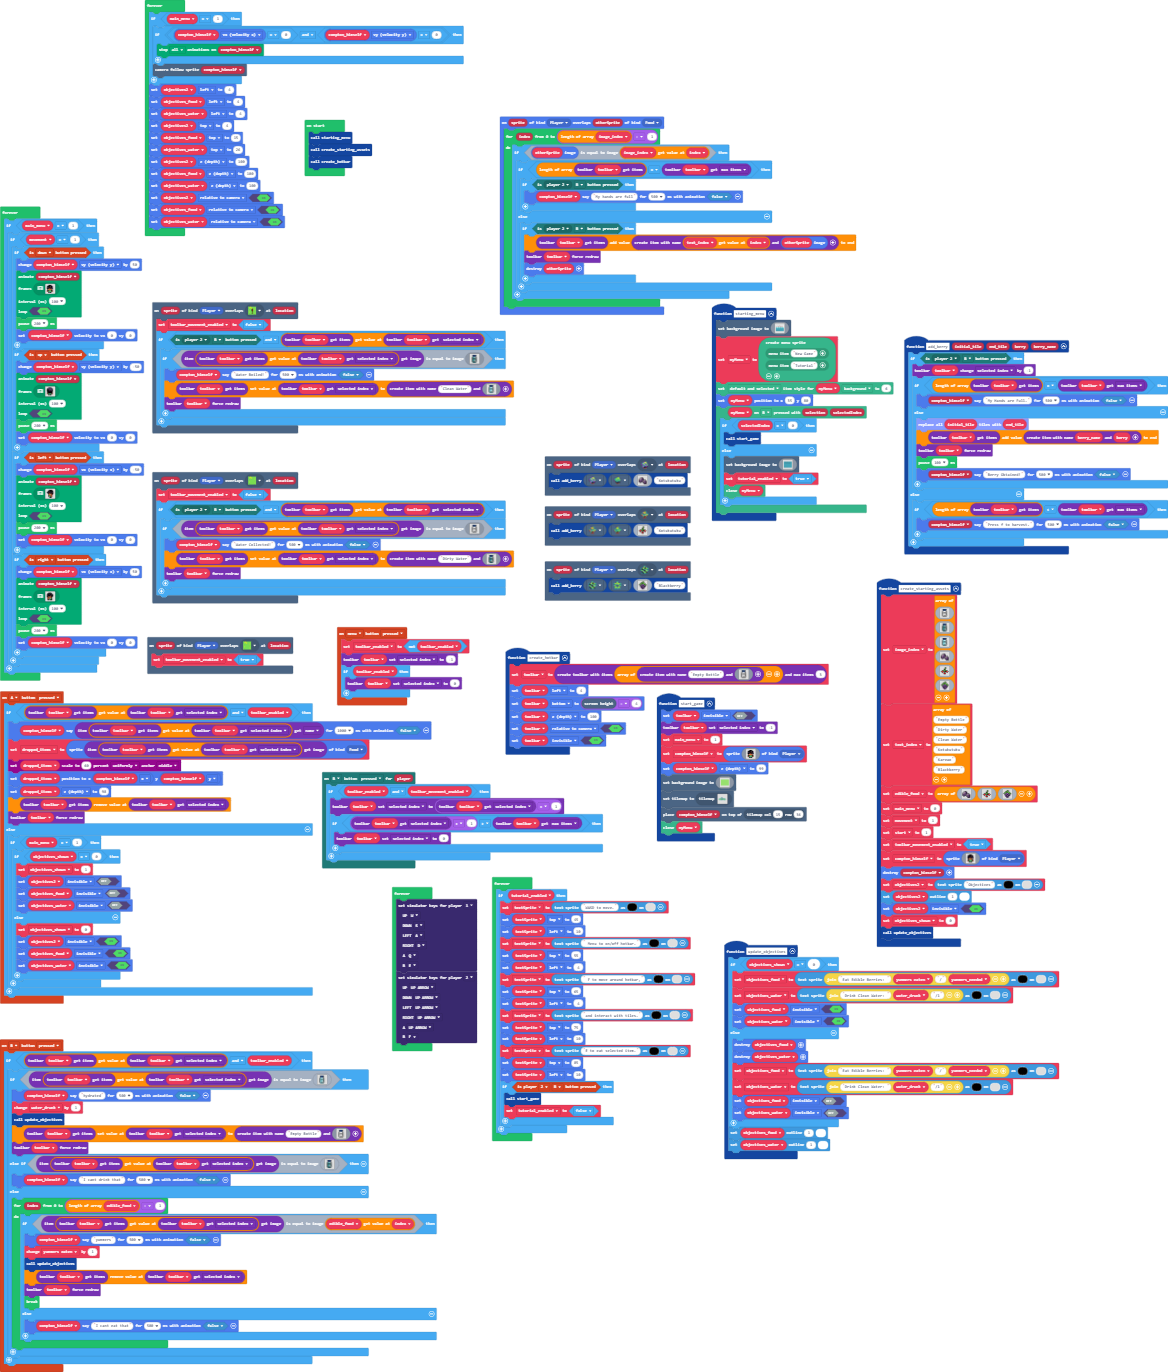
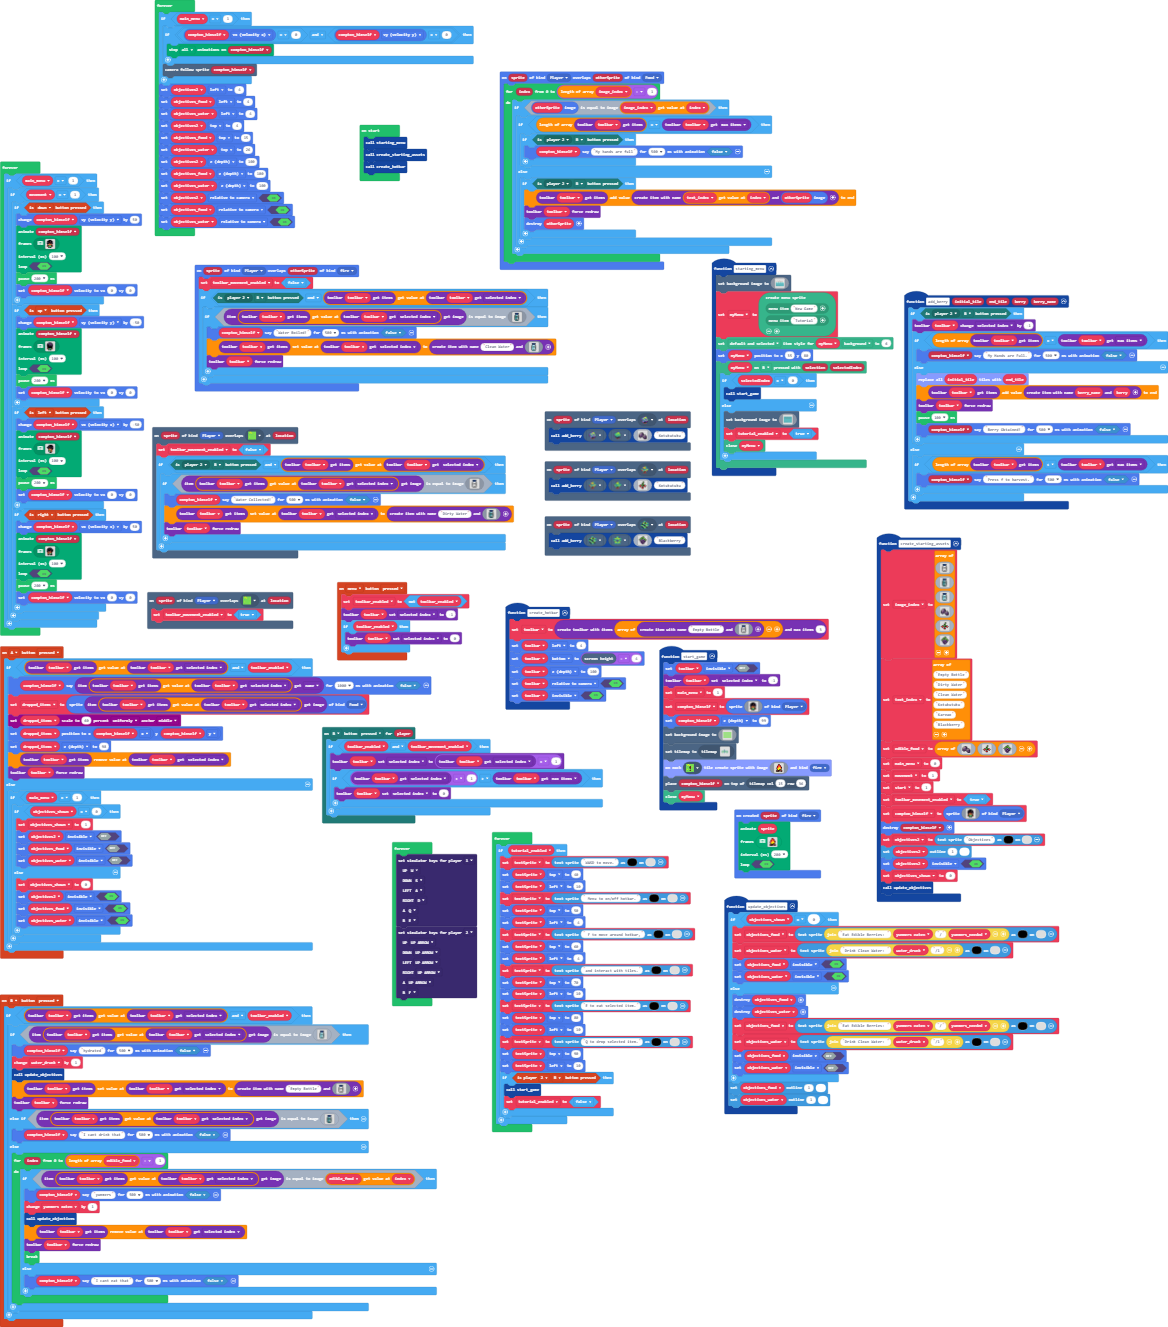
campfire animation done

diff --git a/main.ts b/main.ts
@@ -1,5 +1,6 @@
 namespace SpriteKind {
     export const objectives = SpriteKind.create()
+    export const fire = SpriteKind.create()
 }
 scene.onOverlapTile(SpriteKind.Player, assets.tile`myTile0`, function (sprite, location) {
     add_berry(assets.tile`myTile0`, assets.tile`myTile`, assets.image`myImage4`, "Blackberry")
@@ -85,6 +86,14 @@ controller.B.onEvent(ControllerButtonEvent.Pressed, function () {
         }
     }
 })
+sprites.onCreated(SpriteKind.fire, function (sprite) {
+    animation.runImageAnimation(
+    sprite,
+    assets.animation`myAnim`,
+    200,
+    true
+    )
+})
 controller.A.onEvent(ControllerButtonEvent.Pressed, function () {
     if (toolbar.get_items()[toolbar.get_number(ToolbarNumberAttribute.SelectedIndex)] && toolbar_enabled) {
         compton_himself.sayText(toolbar.get_items()[toolbar.get_number(ToolbarNumberAttribute.SelectedIndex)].get_text(ItemTextAttribute.Name), 1000, false)
@@ -110,7 +119,7 @@ controller.A.onEvent(ControllerButtonEvent.Pressed, function () {
         }
     }
 })
-scene.onOverlapTile(SpriteKind.Player, assets.tile`myTile4`, function (sprite, location) {
+sprites.onOverlap(SpriteKind.Player, SpriteKind.fire, function (sprite, otherSprite) {
     toolbar_movement_enabled = false
     if (mp.isButtonPressed(mp.playerSelector(mp.PlayerNumber.Two), mp.MultiplayerButton.B) && toolbar.get_items()[toolbar.get_number(ToolbarNumberAttribute.SelectedIndex)]) {
         if (toolbar.get_items()[toolbar.get_number(ToolbarNumberAttribute.SelectedIndex)].get_image().equals(assets.image`dirty_water`)) {
@@ -272,6 +281,7 @@ function start_game () {
         7777777777777777777777777777777777777777777777777777777777777777777777777777777777777777777777777777777777777777777777777777777777777777777777777777777777777777
         `)
     tiles.setCurrentTilemap(tilemap`Level_3`)
+    tileUtil.createSpritesOnTiles(assets.tile`myTile4`, assets.image`myImage1`, SpriteKind.fire)
     tiles.placeOnTile(compton_himself, tiles.getTileLocation(15, 36))
     myMenu.close()
 }
@@ -572,19 +582,22 @@ forever(function () {
 forever(function () {
     if (tutorial_enabled) {
         textSprite = textsprite.create("WASD to move.", 0, 15)
-        textSprite.top = 45
+        textSprite.top = 40
         textSprite.left = 10
         textSprite = textsprite.create(" Menu to on/off hotbar.", 0, 15)
-        textSprite.top = 55
+        textSprite.top = 50
         textSprite.left = 4
         textSprite = textsprite.create(" F to move around hotbar,", 0, 15)
-        textSprite.top = 65
+        textSprite.top = 60
         textSprite.left = 4
         textSprite = textsprite.create("and interact with tiles.", 0, 15)
-        textSprite.top = 75
+        textSprite.top = 70
         textSprite.left = 10
         textSprite = textsprite.create("E to eat selected item.", 0, 15)
-        textSprite.top = 85
+        textSprite.top = 80
+        textSprite.left = 10
+        textSprite = textsprite.create("Q to drop selected item.", 0, 15)
+        textSprite.top = 90
         textSprite.left = 10
         if (controller.player2.isPressed(ControllerButton.B)) {
             start_game()

diff --git a/images.g.ts b/images.g.ts
@@ -395,6 +395,25 @@ f . . . . .
 6666666666666666666666666666666666666666666666666666666666666666666666666666666666666666666666666666666666666666666666666666666666666666666666666666666666666666
 6666666666666666666666666666666666666666666666666666666666666666666666666666666666666666666666666666666666666666666666666666666666666666666666666666666666666666
 `;
+            case "image3":
+            case "myImage1":return img`
+. . . . . . . f f . . . . . . . 
+. . . . . . f 2 2 f . . . . . . 
+. . . . . . f 2 2 2 f . . . . . 
+. . . . . f 2 4 2 2 2 f . . . . 
+. . . . f 2 2 4 4 2 2 f . . . . 
+. . . . f 2 2 4 4 4 2 2 f . . . 
+. . . . f 2 4 4 4 5 4 2 f f . . 
+. . . f 2 2 4 4 5 5 4 4 2 f . . 
+. . . f 2 4 4 5 5 5 5 4 2 f . . 
+. . . f 4 4 5 5 5 5 5 4 f . . . 
+. . . . f 5 5 5 5 5 5 f f . . . 
+. . . f e f 5 5 f f f e f . . . 
+. . . f e e f f e f e e e f . . 
+. . f e e f f e e f e e e e f . 
+. . f e f f e e f f f f e e f . 
+. . . f . f f f . . . . f f . . 
+`;
         }
         return null;
     })
